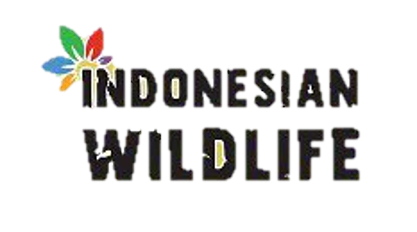
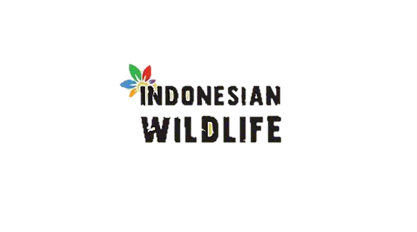
fixing footer

Changed region(s): [[0.0935, 0.0905, 0.8729, 0.7845]]

diff --git a/src/components/footer/Footer.tsx b/src/components/footer/Footer.tsx
@@ -1,58 +1,114 @@
 import Image from "next/image"
 import React from "react"
 
-type Props = {}
-
-export default function Footer({}: Props) {
+export default function Footer() {
   return (
-    <div className="w-full bg-neutral-100 flex  flex-col md:flex-row justify-between items-center p-4 md:px-8 md:py-6 lg:px-36 lg:py-5">
-      <div className="flex items-center gap-2 md:w-1/2 lg:w-1/2">
-        <div className="w-1/4 p-4 lg:w-1/6">
-          <Image
-            width={0}
-            height={0}
-            sizes="100vw"
-            src="/assets/logo.png"
-            alt="Logo"
-            className="w-full"
-          />
+    // <div className="w-full bg-neutral-100 flex flex-col lg:flex-row justify-between items-center p-4 md:px-12 md:py-8">
+    //   <div className="flex items-center gap-4 md:w-1/2 lg:w-1/2">
+    //     <div className="w-16">
+    //       <Image
+    //         width={0}
+    //         height={0}
+    //         sizes="100vw"
+    //         src="/assets/logo.png"
+    //         alt="Logo"
+    //         className="w-full"
+    //       />
+    //     </div>
+    //     <div className="w-3/4">
+    //       <p className="text-neutral-0 text-sm md:text-base font-semibold">
+    //         Indonesian Wildlife
+    //       </p>
+    //       <p className="text-neutral-0 text-xs md:text-sm">
+    //         Direktorat Konservasi Keanekaragaman Hayati Spesies dan Genetik
+    //         Kementerian Lingkungan Hidup dan Kehutanan
+    //       </p>
+    //     </div>
+    //   </div>
+    //   <div className="flex items-center gap-4 md:w-1/2 lg:w-1/2 lg:justify-end">
+    //     <div className="flex h-16 items-center">
+    //       <div className="bg-white flex items-center">
+    //         <Image
+    //           width={0}
+    //           height={0}
+    //           sizes="100vw"
+    //           src="/assets/wildlife.png"
+    //           alt="Logo"
+    //           className="w-48"
+    //         />
+    //       </div>
+    //       <div className="">
+    //         <Image
+    //           width={0}
+    //           height={0}
+    //           sizes="100vw"
+    //           src="/assets/figth-xcrime.png"
+    //           alt="Logo"
+    //           className="w-48"
+    //         />
+    //       </div>
+    //     </div>
+    //     <div className="">
+    //       <p className="text-neutral-0 text-sm md:text-base font-semibold">
+    //         © Seluruh Hak Cipta Kementerian LHK
+    //       </p>
+    //       <p className="text-neutral-0 text-xs md:text-sm">
+    //         Prototype Pelatihan Kepemimpinan Perlindungan Habitat dan
+    //         Pengendalian Pemanfaatan Tumbuhan dan Satwa Liar Batch II
+    //       </p>
+    //     </div>
+    //   </div>
+    // </div>
+    <div className="bg-neutral-900 text-neutral-10 p-4 md:p-6 flex flex-col gap-4 md:flex-row md:justify-between lg:px-16 lg:py-12">
+      <div className="grid grid-cols-3 place-items-center md:max-w-sm lg:max-w-lg md:flex md:flex-col md:gap-4">
+        <div className="p-4 md:h-32 md:justify-start md:w-full md:p-0">
+          <div className="w-full md:h-full md:w-auto">
+            <Image
+              width={0}
+              height={0}
+              sizes="100vh"
+              src="/assets/logo.png"
+              alt="Logo"
+              className="w-auto h-full"
+            />
+          </div>
         </div>
-        <div className="w-3/4">
-          <p className="text-neutral-0 text-sm md:text-base font-semibold">
-            Indonesia Wildlife
-          </p>
-          <p className="text-neutral-0 text-xs md:text-sm">
+        <div className="col-span-2">
+          <p className="font-semibold text-lg">Indonesian Wildlife</p>
+          <p className="text-xs md:text-base mt-2">
             Direktorat Konservasi Keanekaragaman Hayati Spesies dan Genetik
             Kementerian Lingkungan Hidup dan Kehutanan
           </p>
         </div>
       </div>
-      <div className="flex items-center gap-2 md:w-1/2 lg:w-1/2 lg:justify-end">
-        <div className="w-1/4 p-4 lg:w-1/6">
-          <div className="bg-white">
+      <div className="grid grid-cols-3 place-items-center md:max-w-sm lg:max-w-lg md:flex md:flex-col md:gap-4">
+        <div className="flex flex-col gap-4 p-4 md:flex-row md:h-32 md:gap-4 md:justify-start md:items-center md:w-full md:p-0">
+          <div className="bg-white basis-1/2 h-full flex items-center justify-center rounded-xl overflow-hidden">
             <Image
               width={0}
               height={0}
-              sizes="100vw"
-              src="/assets/home_feature_illustration_1.png"
+              sizes="100vh"
+              src="/assets/wildlife.png"
               alt="Logo"
-              className="w-full"
+              className="w-auto h-full"
             />
           </div>
-          <Image
-            width={0}
-            height={0}
-            sizes="100vw"
-            src="/assets/figth-xcrime.png"
-            alt="Logo"
-            className="w-full"
-          />
+          <div className="basis-1/2 h-full rounded-xl overflow-hidden">
+            <Image
+              width={0}
+              height={0}
+              sizes="100vh"
+              src="/assets/figth-xcrime.png"
+              alt="Logo"
+              className="w-auto h-full"
+            />
+          </div>
         </div>
-        <div className="w-3/4 ">
-          <p className="text-neutral-0 text-sm md:text-base font-semibold">
+        <div className="col-span-2">
+          <p className="font-semibold text-lg">
             © Seluruh Hak Cipta Kementerian LHK
           </p>
-          <p className="text-neutral-0 text-xs md:text-sm">
+          <p className="text-xs md:text-base mt-2">
             Prototype Pelatihan Kepemimpinan Perlindungan Habitat dan
             Pengendalian Pemanfaatan Tumbuhan dan Satwa Liar Batch II
           </p>

diff --git a/src/app/(guest_route)/(home)/page.tsx b/src/app/(guest_route)/(home)/page.tsx
@@ -20,10 +20,10 @@ export default function Page() {
             <div className="flex flex-col gap-4">
               <div className="flex flex-col items-start">
                 <h1 className="text-transparent bg-clip-text bg-gradient-to-r from-primary-100 to-secondary-50 font-bold text-3xl lg:text-5xl">
-                  Indonesia Wildlife
+                  Indonesian Wildlife
                 </h1>
                 <p className="text-lg text-neutral-100 font-medium lg:text-xl">
-                  Indonesia Wildlife Rescue Data Center
+                  Indonesian Wildlife Rescue Data Center
                 </p>
               </div>
               <div>

diff --git a/src/app/layout.tsx b/src/app/layout.tsx
@@ -8,7 +8,7 @@ import "react-toastify/dist/ReactToastify.css"
 const inter = Inter({ subsets: ["latin"] })
 
 export const metadata: Metadata = {
-  title: "E-Reporting Indonesia Wildlife",
+  title: "E-Reporting Indonesian Wildlife",
   description:
     "Aplikasi untuk melaporkan kejadian terkait satwa liar di Indonesia",
 }
